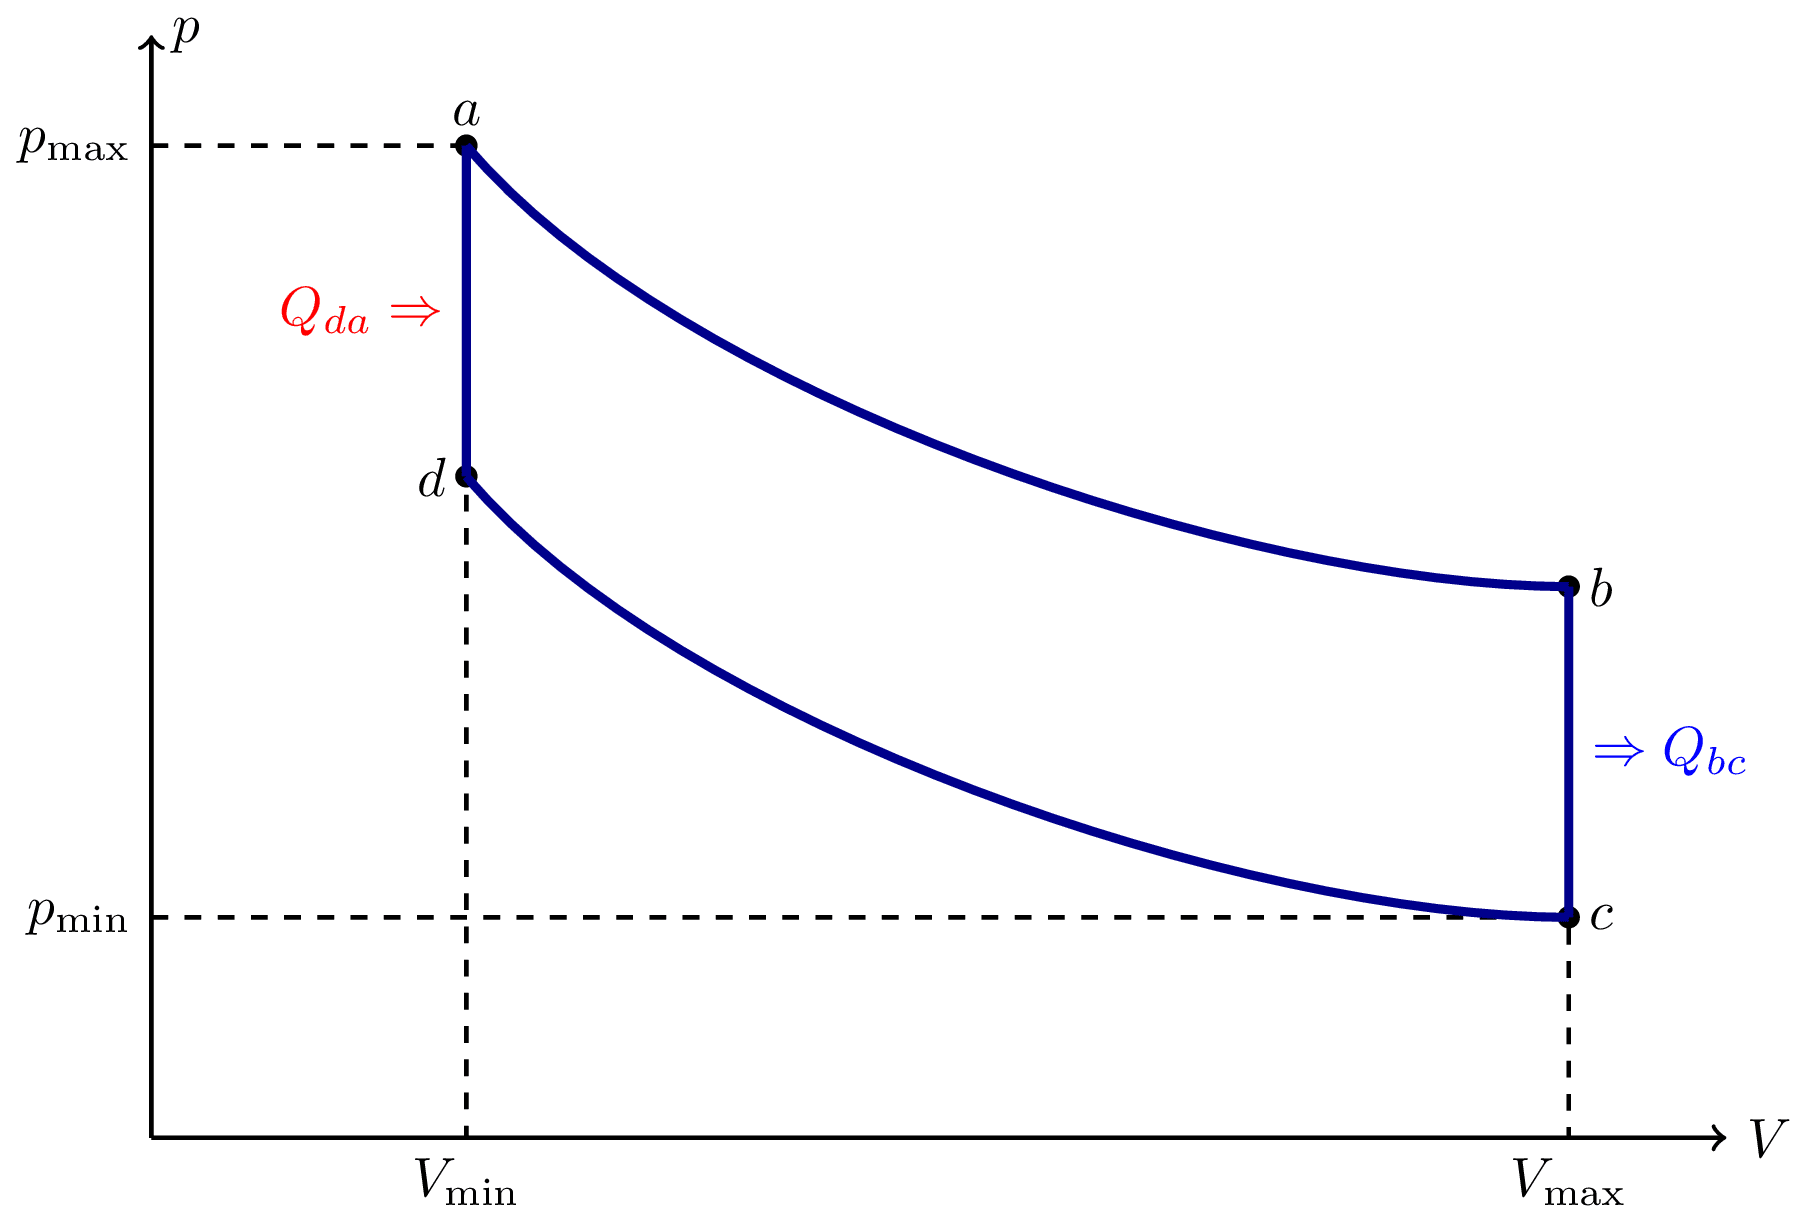
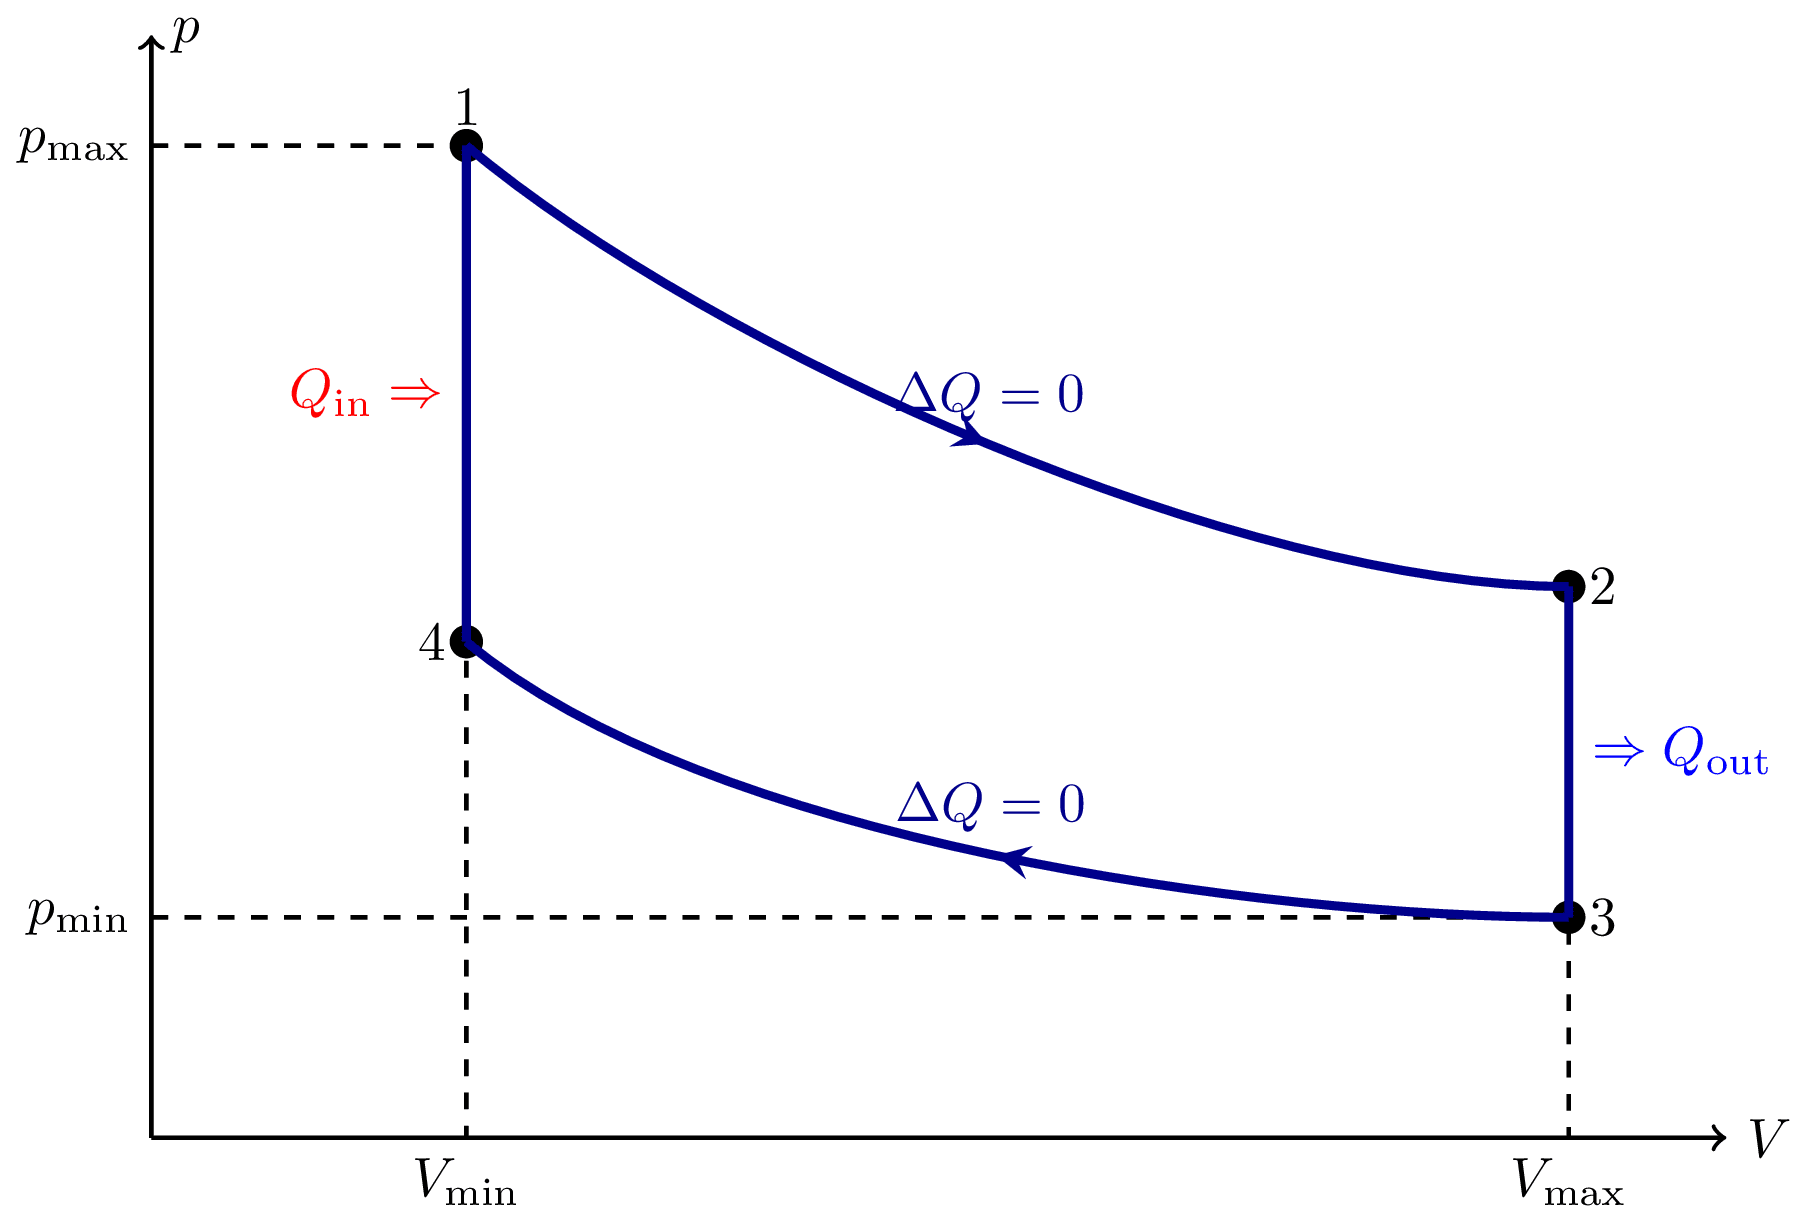
Update `otto-cycle.tex` (#11)
* update assets/otto-cycle/otto-cycle.tex

* move github corner and global css to __layout.svelte

* white space change to trigger CI

* assets for assets/otto-cycle/otto-cycle.tex

diff --git a/site/src/routes/[slug].svelte b/site/src/routes/[slug].svelte
@@ -20,11 +20,13 @@
   $: overleaf_href = `https://overleaf.com/docs?snip_uri=${snip_uri}`
 </script>
 
-<a href="/" class="back" sveltekit:prefetch>&laquo; back</a>
+<a href="/" sveltekit:prefetch>&laquo; back</a>
 <h1>{title}</h1>
+
 {#if desc}
   <p>{@html desc}</p>
 {/if}
+
 <img src="/assets/{slug}/{slug}-hd.png" alt={title} {width} {height} />
 
 <h2><LinkExternal height="1em" style="vertical-align: middle;" />&nbsp; Edit</h2>
@@ -47,6 +49,9 @@
 <Prism {code} title="{slug}.tex" {link} />
 
 <style>
+  h1 {
+    font-size: 3em;
+  }
   :where(h1, h2) {
     border-bottom: 2px solid orange;
     max-width: 10em;
@@ -58,7 +63,6 @@
     margin: 1em auto;
     padding: 1em;
     line-height: 3ex;
-    text-align: justify;
   }
   img[width] {
     width: 100%;
@@ -72,22 +76,21 @@
     display: block;
   }
   a {
-    background: rgba(255, 255, 255, 0.2);
+    background: rgba(255, 255, 255, 0.1);
     padding: 4pt 1ex;
     border-radius: 4pt;
     margin: 2pt;
     transition: color 0.3s, background-color 0.3s;
+    font-size: 16pt;
   }
   a:hover {
-    background: rgba(255, 255, 255, 0.4);
+    background: rgba(255, 255, 255, 0.2);
   }
   a[target='_blank'] {
-    font-size: 3ex;
     display: inline-flex;
     place-items: center;
   }
-  a.back {
-    font-size: 3ex;
+  a[href='/'] {
     position: absolute;
     top: 2em;
     left: 2em;

diff --git a/site/src/routes/__layout.svelte b/site/src/routes/__layout.svelte
@@ -1,6 +1,14 @@
 <script lang="ts">
   import LawIcon from '@svicons/octicons/law.svelte'
+  import '../app.css'
+  import GitHubCorner from 'svelte-github-corner'
 </script>
+
+<GitHubCorner
+  href="https://github.com/janosh/tikz"
+  --ghc-bg="white"
+  --ghc-color="var(--body-bg)"
+/>
 
 <slot />
 

diff --git a/site/src/routes/index.svelte b/site/src/routes/index.svelte
@@ -2,7 +2,6 @@
   import { prerendering } from '$app/env'
   import Law from '@svicons/octicons/law.svelte'
   import MarkGithub from '@svicons/octicons/mark-github.svelte'
-  import GitHubCorner from 'svelte-github-corner'
   import Card from '../components/Card.svelte'
   import texFiles from '../texFiles'
 
@@ -19,12 +18,6 @@
 </script>
 
 <svelte:window bind:innerWidth />
-
-<GitHubCorner
-  href="https://github.com/janosh/tikz"
-  --ghc-bg="white"
-  --ghc-color="var(--body-bg)"
-/>
 
 <h1>Random Tikz Collection</h1>
 <p>

diff --git a/site/src/app.html b/site/src/app.html
@@ -30,7 +30,6 @@
     <meta property="og:url" content="https://tikz.netlify.app" />
     <meta name="twitter:card" content="summary" />
 
-    <link rel="stylesheet" href="/global.css" />
     <link rel="icon" href="/favicon.svg" />
 
     <!-- see netlify.toml for this script's origin -->

diff --git a/assets/otto-cycle/otto-cycle.tex b/assets/otto-cycle/otto-cycle.tex
@@ -1,28 +1,38 @@
-\documentclass[tikz,svgnames]{standalone}
+% The Otto cycle is an idealized thermodynamic cycle of a typical spark ignition piston engine. It is the thermodynamic cycle most commonly found in automobile engines.
+
+\documentclass[tikz, svgnames]{standalone}
 
 \usepackage{mathtools}
+\usetikzlibrary{decorations.markings}
 
 \def\V{10}
 \def\p{7}
 
+\tikzset{decoration={markings, mark=at position 0.5 with {\arrow{stealth}}}}
+
 \begin{document}
 \begin{tikzpicture}[thick]
-  \draw[->] (0,0) -- (0,\p) node[right] {$p$};
-  \draw[->] (0,0) -- (\V,0) node[right] {$V$};
+  \draw[->] (0, 0) -- (0, \p) node[right] {$p$};
+  \draw[->] (0, 0) -- (\V, 0) node[right] {$V$};
 
-  \draw[dashed] (0,0.9*\p) node[left] {$p_\text{max}$} -| (0.2*\V,0) node[below] {$V_\text{min}$};
+  \draw[dashed] (0, 0.9*\p) node[left] {$p_\text{max}$} -| (0.2*\V, 0) node[below] {$V_\text{min}$};
 
-  \draw[dashed] (0,0.2*\p) node[left] {$p_\text{min}$} -| (0.9*\V,0) node[below] {$V_\text{max}$};
+  \draw[dashed] (0, 0.2*\p) node[left] {$p_\text{min}$} -| (0.9*\V, 0) node[below] {$V_\text{max}$};
 
-  \coordinate[label=above:$a$] (a) at (0.2*\V,0.9*\p);
-  \coordinate[label=right:$b$] (b) at (0.9*\V,0.5*\p);
-  \coordinate[label=right:$c$] (c) at (0.9*\V,0.2*\p);
-  \coordinate[label=left:$d$] (d) at (0.2*\V,0.6*\p);
+  \coordinate[label=above:1] (a) at (0.2*\V, 0.9*\p);
+  \coordinate[label=right:2] (b) at (0.9*\V, 0.5*\p);
+  \coordinate[label=right:3] (c) at (0.9*\V, 0.2*\p);
+  \coordinate[label=left:4] (d) at (0.2*\V, 0.45*\p);
 
-  \foreach \point in {a,b,c,d}
-  \fill (\point) circle (2pt);
+  \foreach \point in {a, b, c, d}
+  \fill (\point) circle (3pt);
 
-  \draw[ultra thick,DarkBlue] (a) edge[out=-50,in=180,looseness=0.7] (b) (b) -- (c) node[midway,right,blue] {$\Rightarrow Q_{bc}$} (c) edge[out=180,in=-50,looseness=0.7] (d) (d) -- (a) node[midway,left,red] {$Q_{da} \Rightarrow$};
+  \draw[ultra thick, DarkBlue] (a) edge[out=-40, in=180, looseness=0.7, postaction={decorate}]
+  node[midway, above=2px] {$\Delta Q = 0$} (b) (b) -- (c)
+  node[midway, right, blue] {$\Rightarrow Q_\text{out}$} (c)
+  edge[out=180, in=-40, looseness=0.7, postaction={decorate}]
+  node[midway, above=2px] {$\Delta Q = 0$} (d) (d) -- (a)
+  node[midway, left, red] {$Q_\text{in} \Rightarrow$};
 
 \end{tikzpicture}
 \end{document}